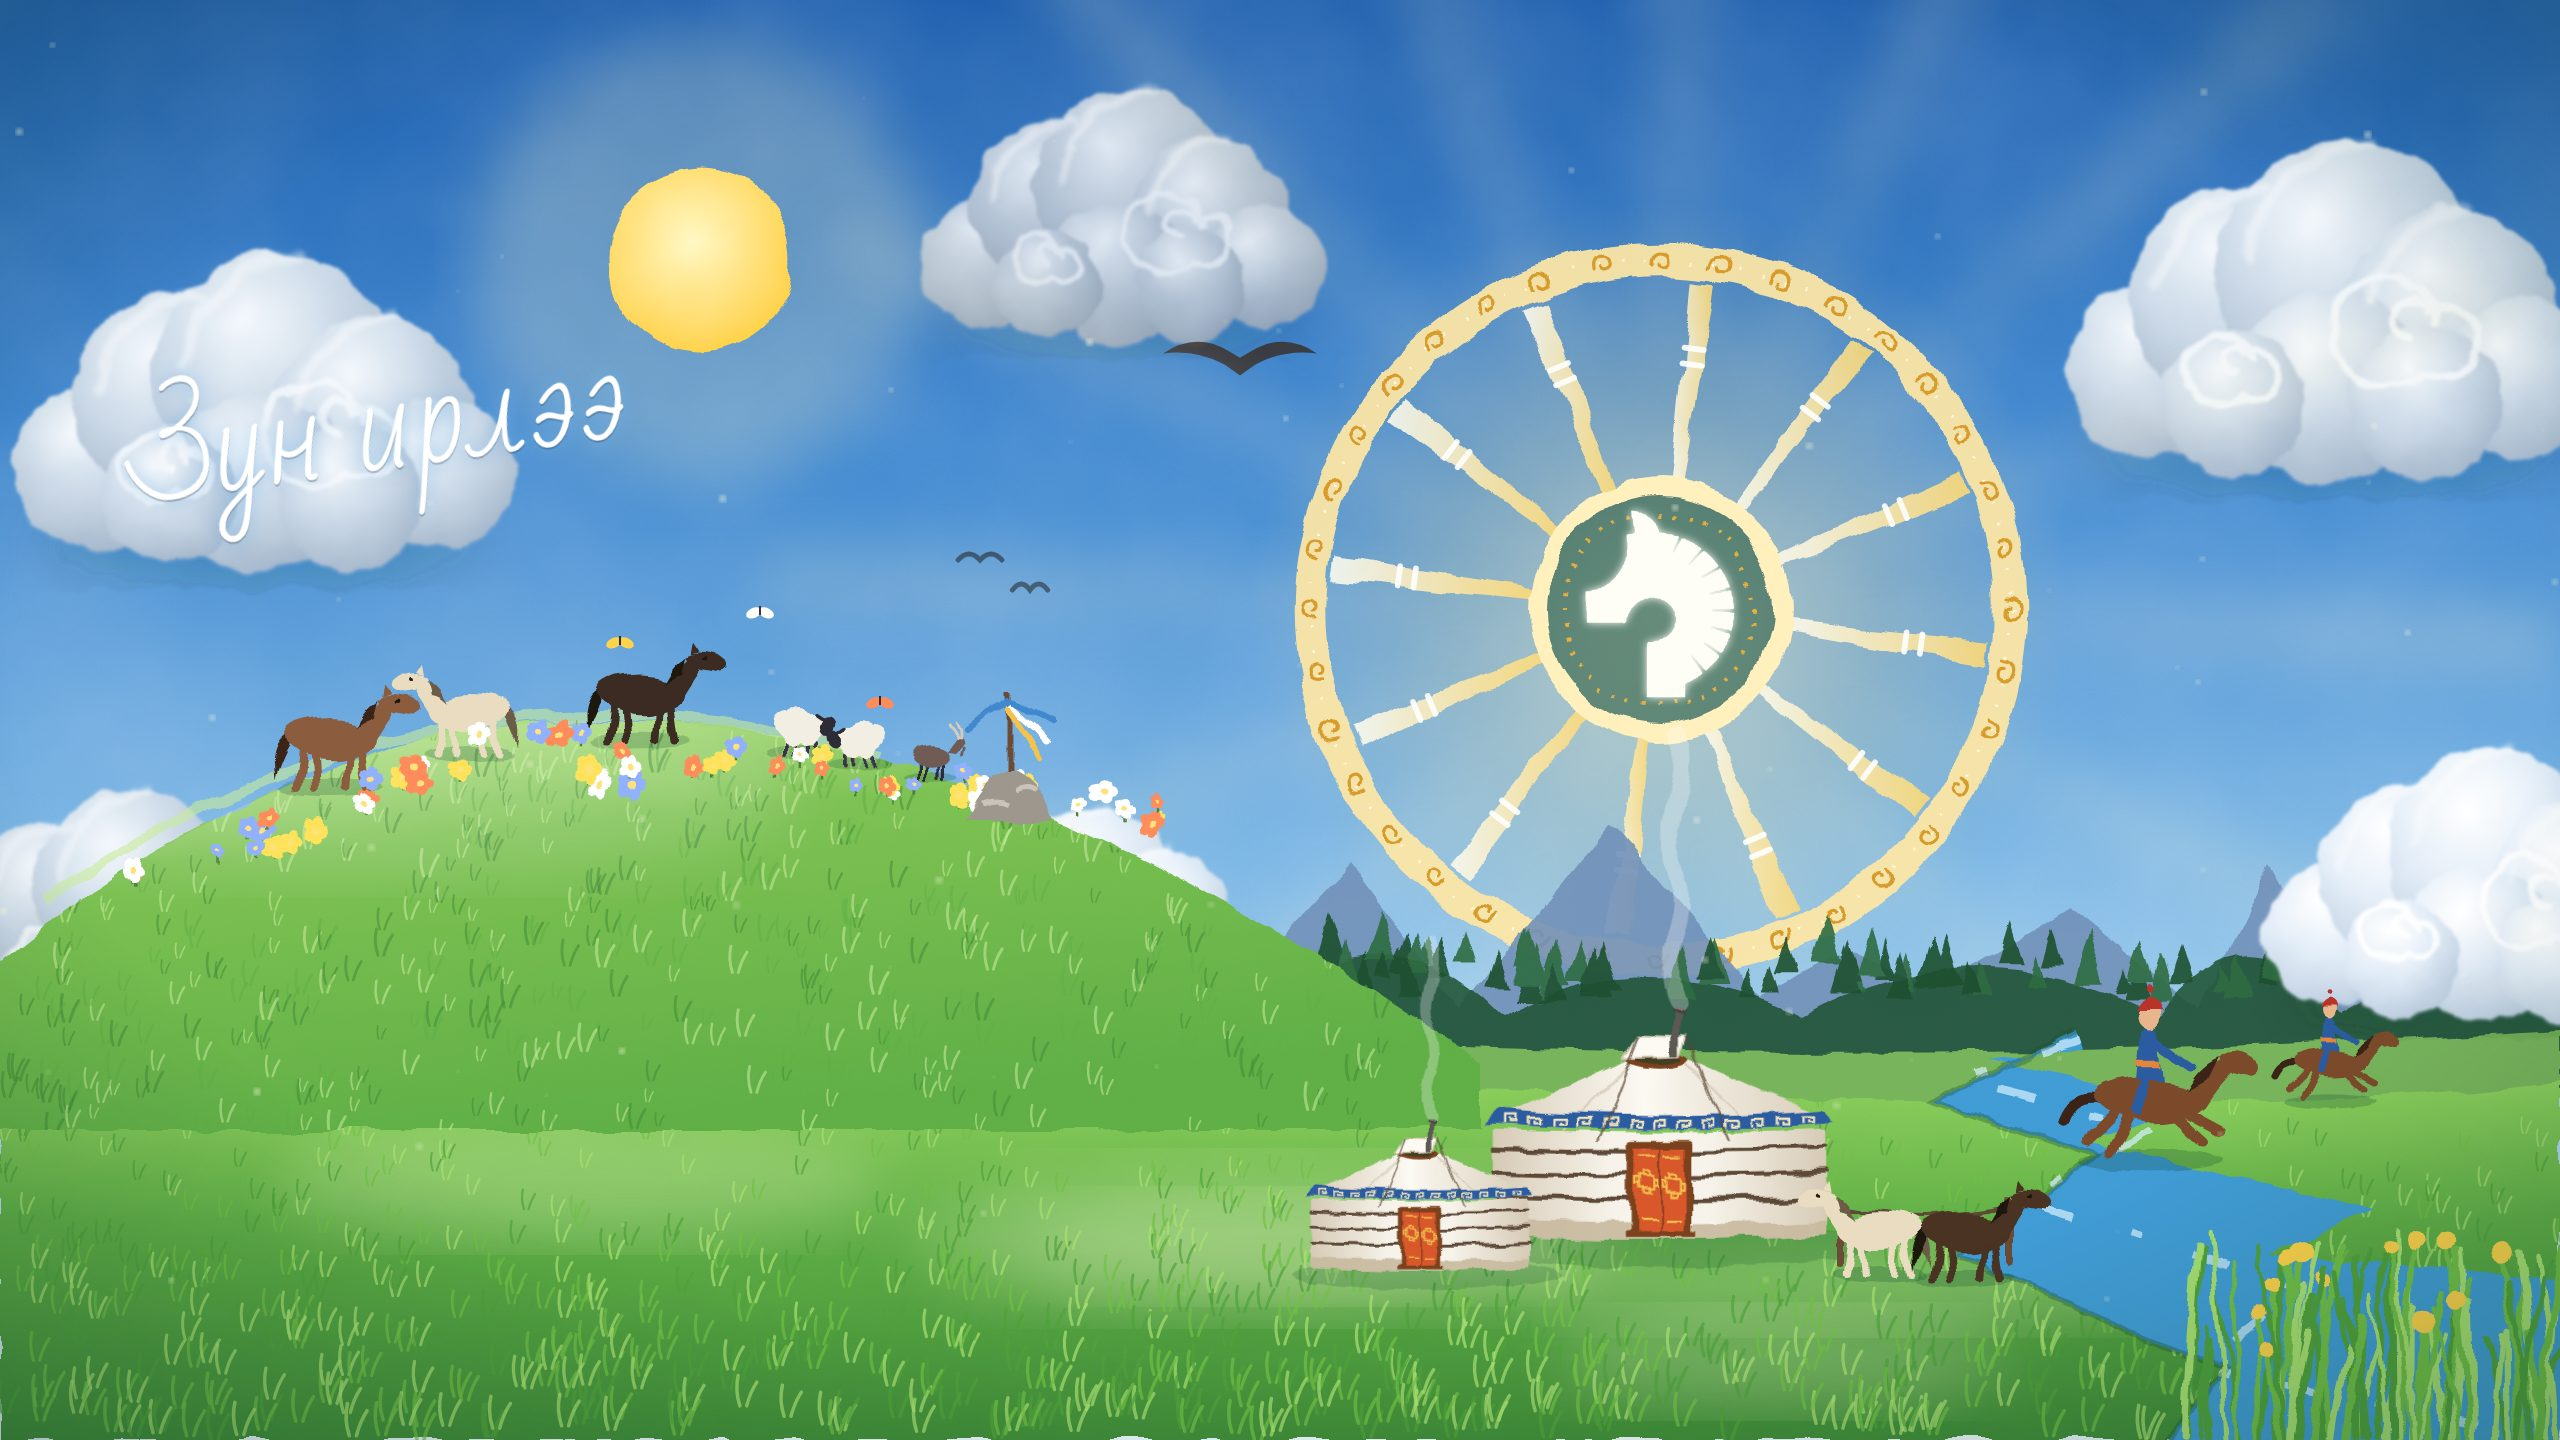
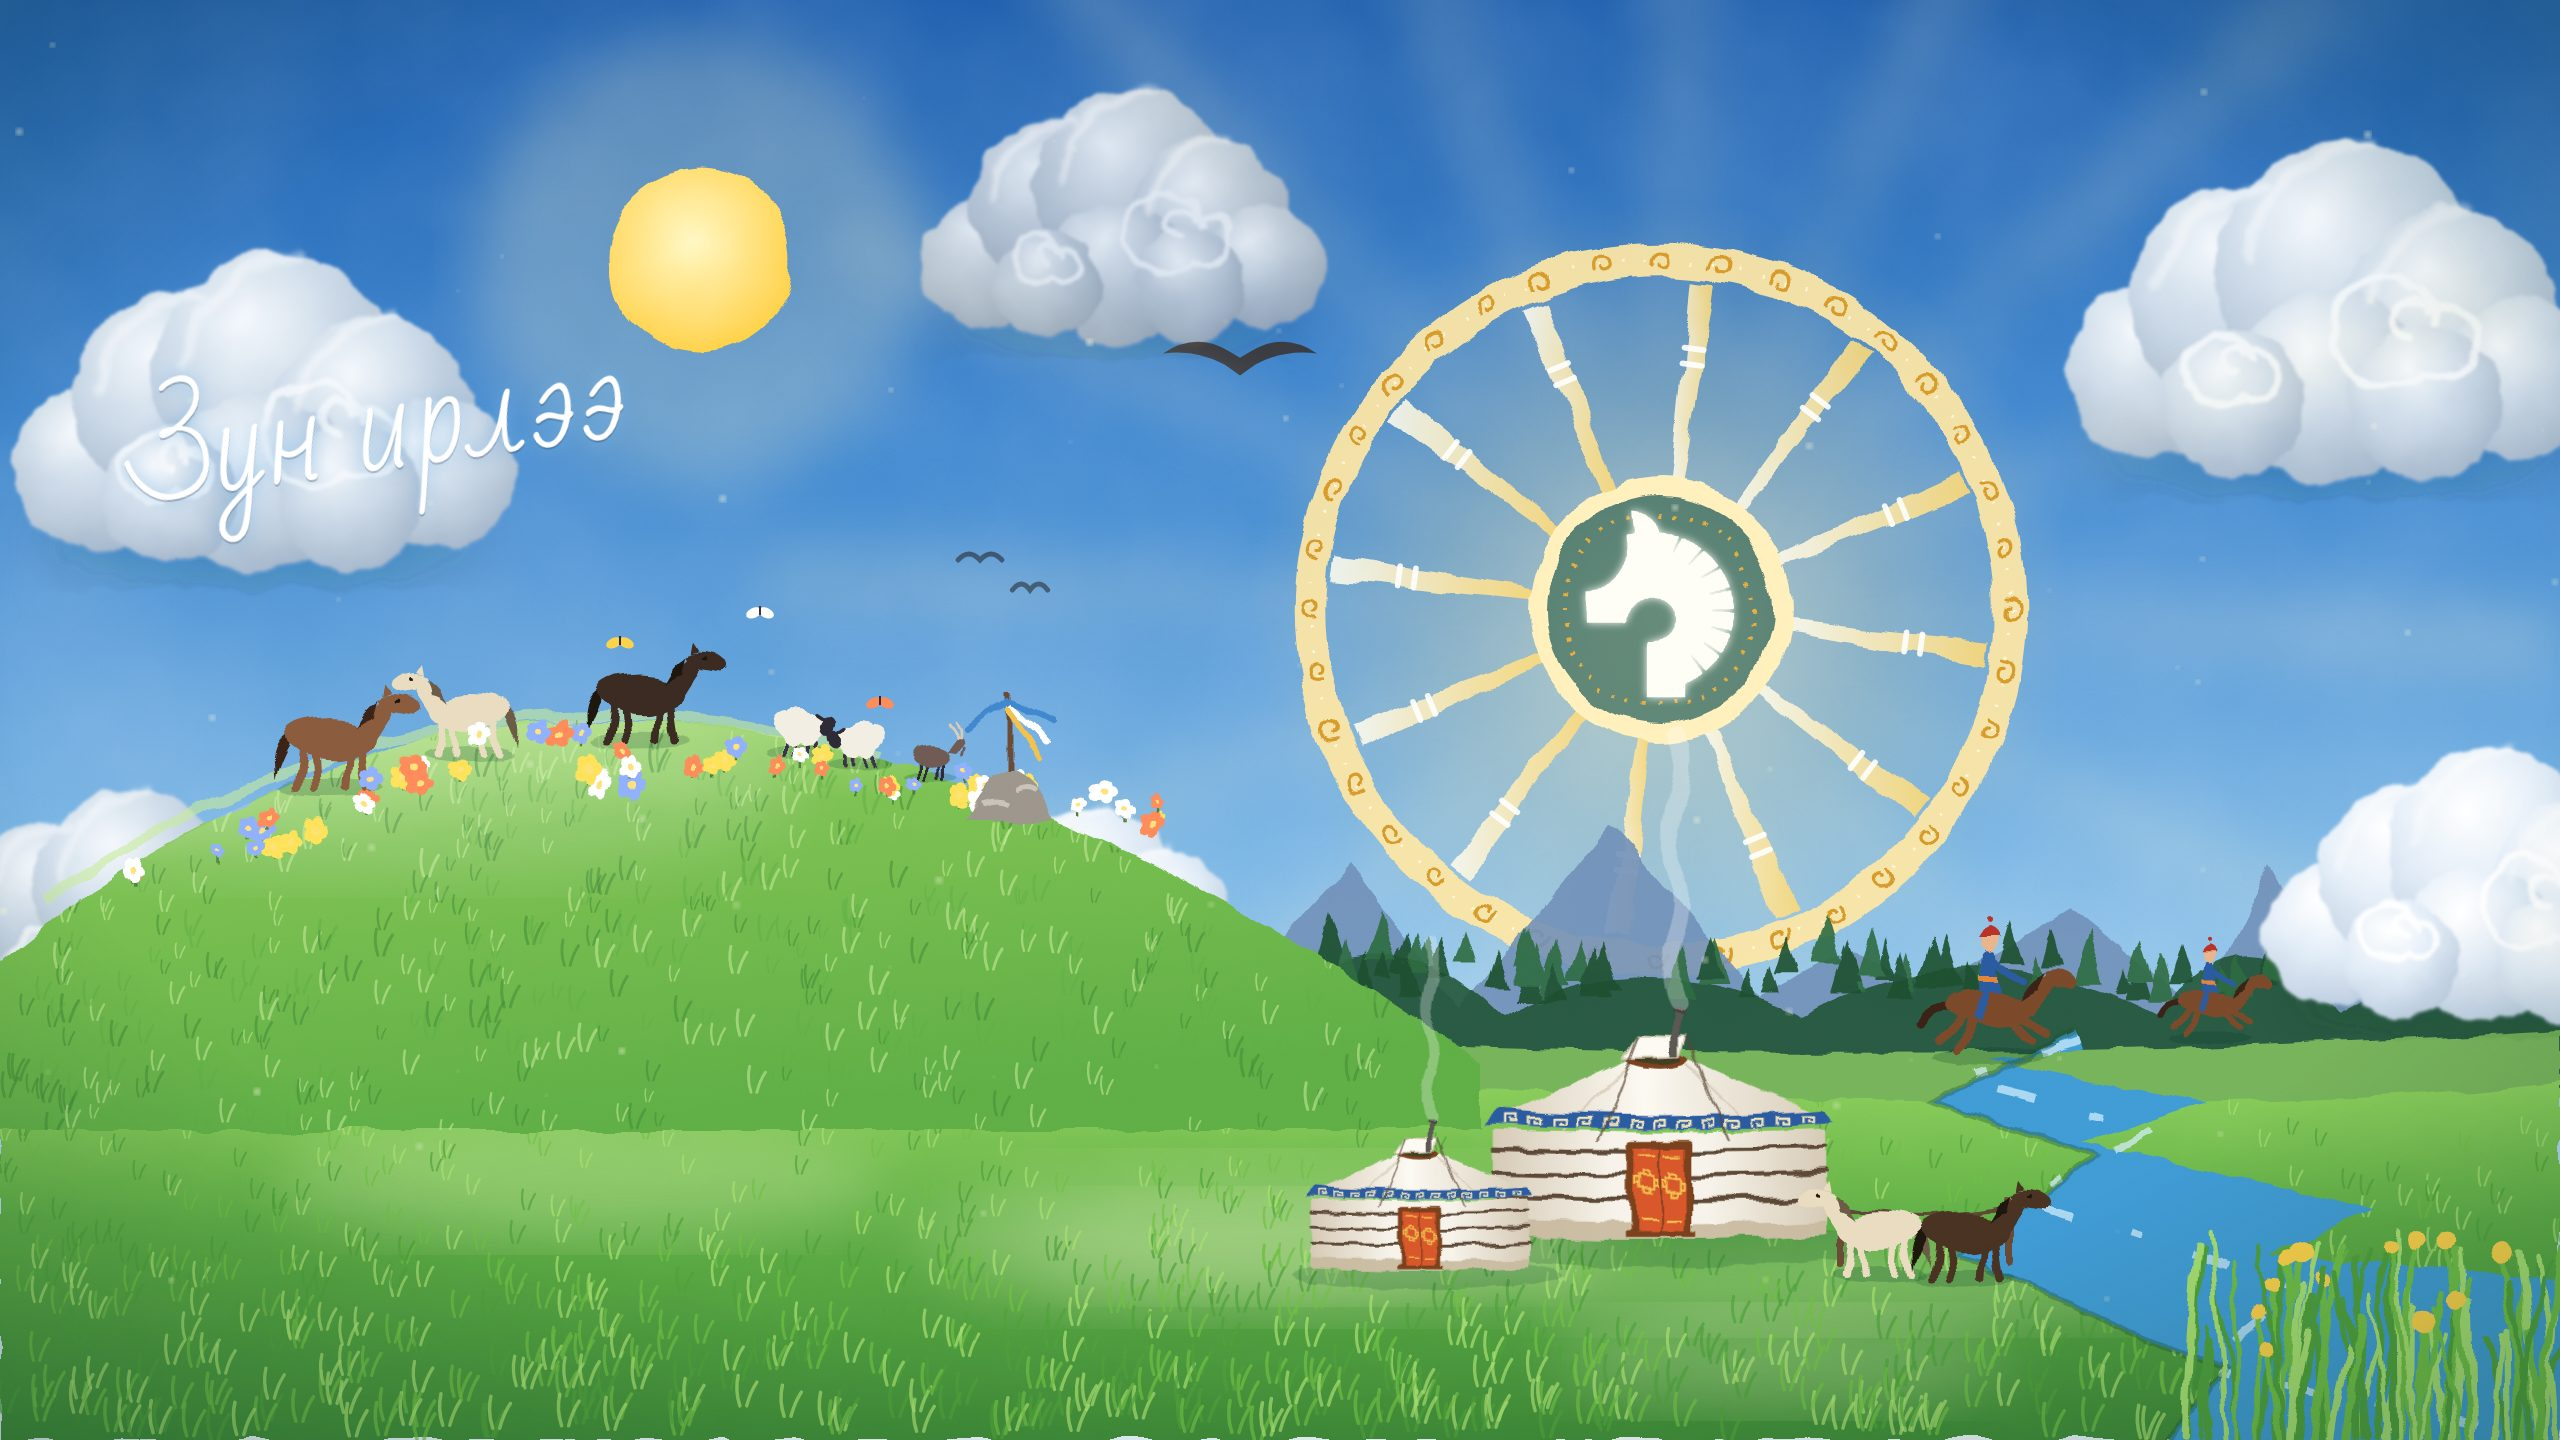
Seasonal heroes: riders moved above the quote box
Claude-Session: https://claude.ai/code/session_013mTHg5jK5EjhttnQogVYog

Changed region(s): [[0.75, 0.625, 0.9375, 0.8125]]

diff --git a/index.html b/index.html
@@ -26,7 +26,7 @@
   <link rel="preconnect" href="https://fonts.googleapis.com">
   <link rel="preconnect" href="https://fonts.gstatic.com" crossorigin>
   <link href="https://fonts.googleapis.com/css2?family=Inter:wght@400;500;600;700&family=Inter+Tight:wght@500;600;700&family=PT+Serif:ital@0;1&display=swap" rel="stylesheet">
-  <link rel="stylesheet" href="css/style.css?v=95">
+  <link rel="stylesheet" href="css/style.css?v=96">
   <script>
     (function () {
       var d = document.documentElement, s = null, l = null;
@@ -38,7 +38,7 @@
       var se = q || (m >= 3 && m <= 5 ? "spring" : m >= 6 && m <= 8 ? "summer" : m >= 9 && m <= 10 ? "autumn" : "winter");
       d.setAttribute("data-season", se);
       var pl = document.createElement("link"); pl.rel = "preload"; pl.as = "image"; pl.fetchPriority = "high";
-      pl.setAttribute("imagesrcset", "assets/img/hero-" + se + "-m.jpg?v=7 1080w, assets/img/hero-" + se + ".jpg?v=7 2560w");
+      pl.setAttribute("imagesrcset", "assets/img/hero-" + se + "-m.jpg?v=7 1080w, assets/img/hero-" + se + ".jpg?v=" + (se === "winter" ? 7 : 8) + " 2560w");
       pl.setAttribute("imagesizes", "100vw"); document.head.appendChild(pl);
       // Mongolian is the default; English only when the visitor chose it.
       if (l !== "en") { d.setAttribute("data-lang", "mn"); d.lang = "mn"; d.classList.add("i18n-wait"); setTimeout(function () { d.classList.remove("i18n-wait"); }, 2500); }

diff --git a/css/style.css b/css/style.css
@@ -3508,9 +3508,9 @@ html.i18n-wait body { visibility: hidden; }
 /* Home hero changes with the season (html[data-season] is set in the page head) */
 .hero__bg--season { background: #1a1d36 center 40% / cover no-repeat; }
 html[data-season="winter"] .hero__bg--season { background-image: url(../assets/img/hero-winter.jpg?v=7); }
-html[data-season="spring"] .hero__bg--season { background-image: url(../assets/img/hero-spring.jpg?v=7); background-color: #7c9cc7; }
-html[data-season="summer"] .hero__bg--season { background-image: url(../assets/img/hero-summer.jpg?v=7); background-color: #3f86cf; }
-html[data-season="autumn"] .hero__bg--season { background-image: url(../assets/img/hero-autumn.jpg?v=7); background-color: #a65a5c; }
+html[data-season="spring"] .hero__bg--season { background-image: url(../assets/img/hero-spring.jpg?v=8); background-color: #7c9cc7; }
+html[data-season="summer"] .hero__bg--season { background-image: url(../assets/img/hero-summer.jpg?v=8); background-color: #3f86cf; }
+html[data-season="autumn"] .hero__bg--season { background-image: url(../assets/img/hero-autumn.jpg?v=8); background-color: #a65a5c; }
 @media (max-width: 700px) {
   .hero__bg--season { background-position: center top; }
   html[data-season="winter"] .hero__bg--season { background-image: url(../assets/img/hero-winter-m.jpg?v=7); }

diff --git a/culture/index.html b/culture/index.html
@@ -20,7 +20,7 @@
   <link rel="preconnect" href="https://fonts.googleapis.com">
   <link rel="preconnect" href="https://fonts.gstatic.com" crossorigin>
   <link href="https://fonts.googleapis.com/css2?family=Inter:wght@400;500;600;700&family=Inter+Tight:wght@500;600;700&family=PT+Serif:ital@0;1&display=swap" rel="stylesheet">
-  <link rel="stylesheet" href="../css/style.css?v=95">
+  <link rel="stylesheet" href="../css/style.css?v=96">
   <script>
     (function () {
       var d = document.documentElement, s = null, l = null;

diff --git a/edu.html b/edu.html
@@ -20,7 +20,7 @@
   <link rel="preconnect" href="https://fonts.googleapis.com">
   <link rel="preconnect" href="https://fonts.gstatic.com" crossorigin>
   <link href="https://fonts.googleapis.com/css2?family=Inter:wght@400;500;600;700&family=Inter+Tight:wght@500;600;700&family=PT+Serif:ital@0;1&display=swap" rel="stylesheet">
-  <link rel="stylesheet" href="css/style.css?v=95">
+  <link rel="stylesheet" href="css/style.css?v=96">
   <script>
     (function () {
       var d = document.documentElement, s = null, l = null;

diff --git a/environment.html b/environment.html
@@ -20,7 +20,7 @@
   <link rel="preconnect" href="https://fonts.googleapis.com">
   <link rel="preconnect" href="https://fonts.gstatic.com" crossorigin>
   <link href="https://fonts.googleapis.com/css2?family=Inter:wght@400;500;600;700&family=Inter+Tight:wght@500;600;700&family=PT+Serif:ital@0;1&display=swap" rel="stylesheet">
-  <link rel="stylesheet" href="css/style.css?v=95">
+  <link rel="stylesheet" href="css/style.css?v=96">
   <script>
     (function () {
       var d = document.documentElement, s = null, l = null;

diff --git a/member.html b/member.html
@@ -20,7 +20,7 @@
   <link rel="preconnect" href="https://fonts.googleapis.com">
   <link rel="preconnect" href="https://fonts.gstatic.com" crossorigin>
   <link href="https://fonts.googleapis.com/css2?family=Inter:wght@400;500;600;700&family=Inter+Tight:wght@500;600;700&family=PT+Serif:ital@0;1&display=swap" rel="stylesheet">
-  <link rel="stylesheet" href="css/style.css?v=95">
+  <link rel="stylesheet" href="css/style.css?v=96">
   <script>
     (function () {
       var d = document.documentElement, s = null, l = null;

diff --git a/plan.html b/plan.html
@@ -20,7 +20,7 @@
   <link rel="preconnect" href="https://fonts.googleapis.com">
   <link rel="preconnect" href="https://fonts.gstatic.com" crossorigin>
   <link href="https://fonts.googleapis.com/css2?family=Inter:wght@400;500;600;700&family=Inter+Tight:wght@500;600;700&family=PT+Serif:ital@0;1&display=swap" rel="stylesheet">
-  <link rel="stylesheet" href="css/style.css?v=95">
+  <link rel="stylesheet" href="css/style.css?v=96">
   <script>
     (function () {
       var d = document.documentElement, s = null, l = null;

diff --git a/research.html b/research.html
@@ -20,7 +20,7 @@
   <link rel="preconnect" href="https://fonts.googleapis.com">
   <link rel="preconnect" href="https://fonts.gstatic.com" crossorigin>
   <link href="https://fonts.googleapis.com/css2?family=Inter:wght@400;500;600;700&family=Inter+Tight:wght@500;600;700&family=PT+Serif:ital@0;1&display=swap" rel="stylesheet">
-  <link rel="stylesheet" href="css/style.css?v=95">
+  <link rel="stylesheet" href="css/style.css?v=96">
   <script>
     (function () {
       var d = document.documentElement, s = null, l = null;
